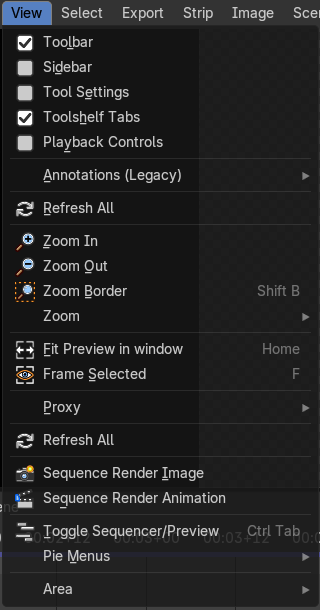
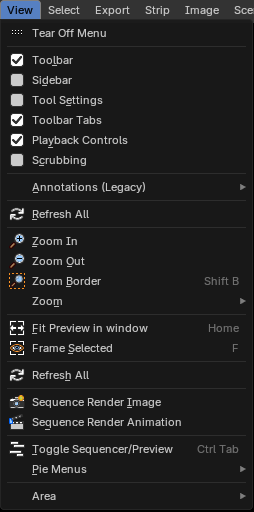
Docs 2.0: Sequencer Preview View menu has no Proxy submenu (#1840)

diff --git a/docs2/content/editors/video-sequence-editor/header/index.md b/docs2/content/editors/video-sequence-editor/header/index.md
@@ -587,43 +587,23 @@ Zooms in or out until the video displays fitting in the viewport.
 
 Centers the selection and zooms to fit.
 
-### Proxy
-
-![Proxy](/docs2/images/editors/video-sequence-editor/header/view-menu/proxy.png)
-
-Proxy works just with movie or image strips. What it does is to create a smaller set of preview images. This speeds up the calculation while you are at editing the video. The final result uses the final images again then.
-
-#### Setup
-
-![Setup](/docs2/images/editors/video-sequence-editor/header/view-menu/setup.png)
-
-Calls a panel where you can choose the resolution of the proxy images. Clicking OK starts the creation process.
-
-#### Rebuild
-
-Recreates the proxy images
-
-#### Scene Render Size
-
-![Scene Render Size](/docs2/images/editors/video-sequence-editor/header/view-menu/scene-render-size.png)
-
-What render size the display should choose.
-
-##### Refresh All
+### Refresh All
 
 Refresh the sequence editor.
 
-##### Sequence render Image
+### Sequence Render Image
 
 Renders an image of the current frame.
 
-##### Sequence render Animation
+### Sequence Render Animation
 
 Renders the animation in the preview range.
 
-##### Toggle Sequencer/Preview
+### Toggle Sequencer/Preview
 
 Toggles the type of sequencer view between Sequencer or Preview.
+
+> **Note:** The View menu of the Preview has no Proxy submenu. Proxies are set up and rebuilt in the Proxy tab of the sidebar, and the proxy render size is in the sidebar of the Preview. See the [Sequencer Proxy Tab](../sidebar/index.md#sequencer--proxy-tab).
 
 ### Pie Menu
 
